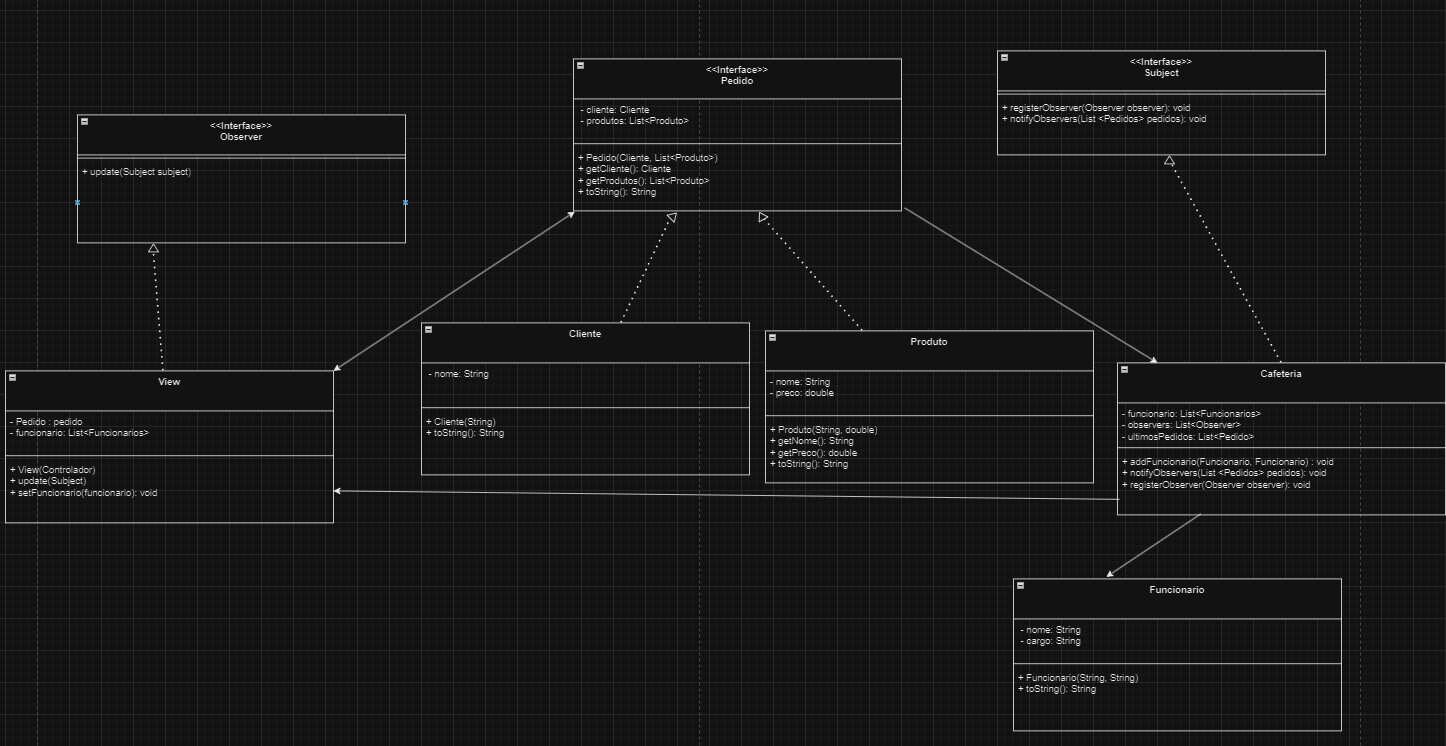
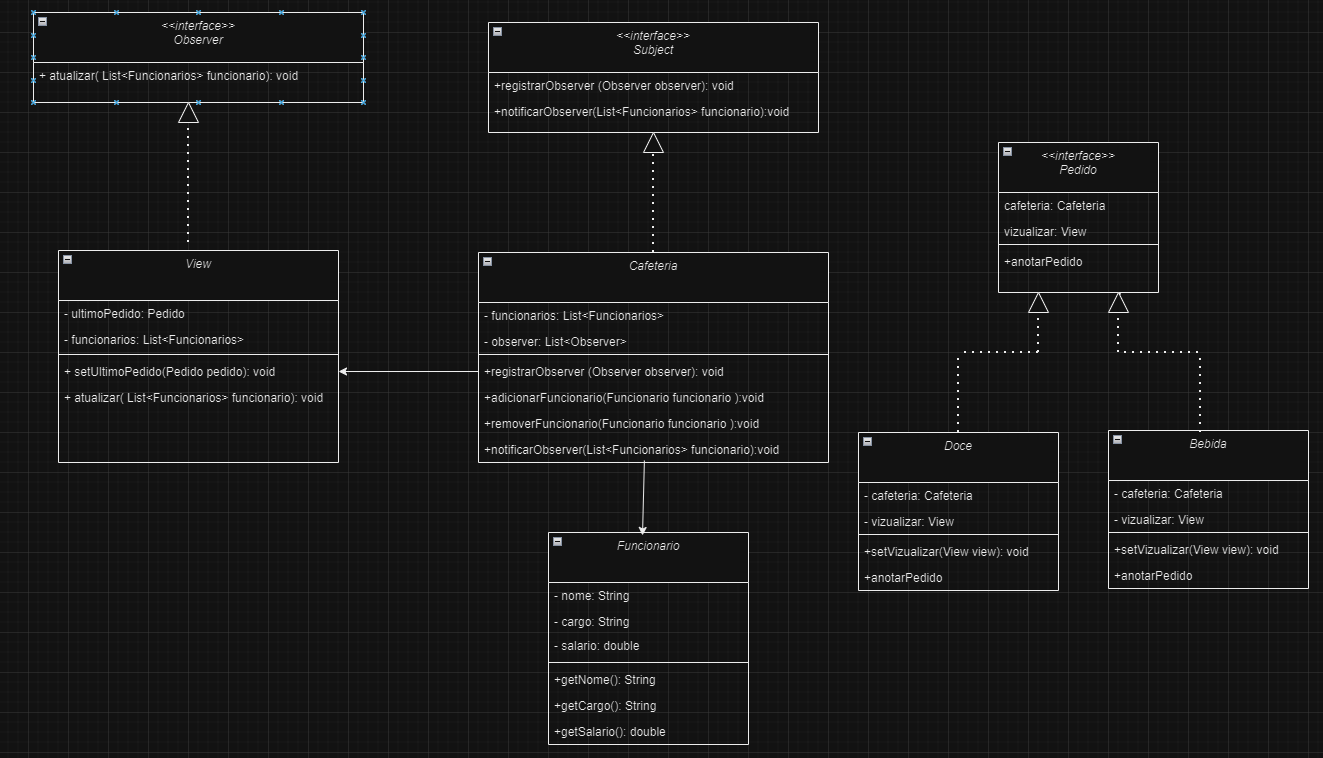
MVC

diff --git a/Engenharia III/MVC/Codigos/View.java b/Engenharia III/MVC/Codigos/View.java
@@ -1,25 +1,14 @@
-
 import java.util.List;
 
-public class View implements Observer {
-    private Controlador controlador;
+public abstract class View implements Observer {
+    private Pedido ultimoPedido;
+    private List<Funcionario> funcionarios;
 
-    public View(Controlador controlador) {
-        this.controlador = controlador;
-        controlador.attach(this);
+    public void setUltimoPedido(Pedido pedido){
+        this.ultimoPedido = pedido;
     }
 
-    public void update(Subject subject) {
-        if (subject instanceof Controlador) {
-            update();
-        }
-    }
-
-    public void update() {
-        List<Pedido> pedidos = controlador.getUltimosPedidos();
-        System.out.println("Novo Pedido Registrado:");
-        for (Pedido pedido : pedidos) {
-            System.out.println(pedido);
-        }
+    public void atualizar(List<Funcionario> funcionarios){
+        this.funcionarios = funcionarios;
     }
 }

diff --git a/Engenharia III/MVC/Codigos/Cafeteria.java b/Engenharia III/MVC/Codigos/Cafeteria.java
@@ -1,0 +1,28 @@
+import java.util.ArrayList;
+import java.util.List;
+
+public abstract class Cafeteria implements Subject {
+    private List<Funcionario> funcionarios;
+    private List<Observer> observers;
+
+    public Cafeteria() {
+        this.funcionarios = new ArrayList<>();
+        this.observers = new ArrayList<>();
+    }
+
+    public void registrarObserver(Observer observador){
+        this.observers.add(observador);
+    }
+
+    public void notificarUltimoPedido(List<Funcionario> l){
+        this.observers.forEach(ob -> ob.atualizar(l));
+    }
+
+    public void adicionarFuncionario(Funcionario funcionario){
+        this.funcionarios.add(funcionario);
+    }
+
+    public Funcionario retirarFuncionario(String nomeFuncionario){
+        return this.funcionarios.stream().filter(r -> r.getNome().equalsIgnoreCase(nomeFuncionario)).findFirst().orElse(null);
+    }
+}

diff --git a/Engenharia III/MVC/Codigos/Funcionario.java b/Engenharia III/MVC/Codigos/Funcionario.java
@@ -1,16 +1,23 @@
 public class Funcionario {
     private String nome;
+    private double saldo;
     private String cargo;
 
-    public Funcionario(String nome, String cargo) {
+    public Funcionario(String nome, double saldo, String cargo){
         this.nome = nome;
+        this.saldo = saldo;
         this.cargo = cargo;
     }
 
-    @Override
-    public String toString() {
-        return nome + " - " + cargo;
+    public String getNome(){
+        return this.nome;
+    }
+
+    public double getSaldo(){
+        return this.saldo;
+    }
+
+    public String getCargo(){
+        return this.cargo;
     }
 }
-
-

diff --git a/Engenharia III/MVC/Codigos/Pedido.java b/Engenharia III/MVC/Codigos/Pedido.java
@@ -1,25 +1,3 @@
-import java.util.ArrayList;
-import java.util.List;
-
-public class Pedido {
-    private Cliente cliente;
-    private List<Produto> produtos;
-
-    public Pedido(Cliente cliente, List<Produto> produtos) {
-        this.cliente = cliente;
-        this.produtos = new ArrayList<>(produtos);
-    }
-
-    public Cliente getCliente() {
-        return cliente;
-    }
-
-    public List<Produto> getProdutos() {
-        return produtos;
-    }
-
-    @Override
-    public String toString() {
-        return "Pedido de " + cliente + ": " + produtos;
-    }
+public interface Pedido {
+    void fazerPedido();
 }

diff --git a/Engenharia III/MVC/Codigos/Subject.java b/Engenharia III/MVC/Codigos/Subject.java
@@ -1,20 +1,6 @@
-import java.util.ArrayList;
 import java.util.List;
 
-public class Subject {
-    private List<Observer> observers = new ArrayList<>();
-
-    public void attach(Observer observer) {
-        observers.add(observer);
-    }
-
-    public void detach(Observer observer) {
-        observers.remove(observer);
-    }
-
-    public void notifyObservers() {
-        for (Observer observer : observers) {
-            observer.update(this);
-        }
-    }
+public interface Subject {
+    void registrarObserver(Observer o);
+    void notificarObservers(List<Funcionario> funcionarios);
 }

diff --git a/Engenharia III/MVC/Codigos/Bebida.java b/Engenharia III/MVC/Codigos/Bebida.java
@@ -1,0 +1,12 @@
+public abstract class Bebida implements Pedido {
+    private View view;
+    private Cafeteria cafeteria;
+
+    public void anotarPedido(){
+        System.out.println("Pedido Anotado!");
+    }
+
+    public void setVisualizador(View view){
+        this.view = view;
+    }
+}

diff --git a/Engenharia III/MVC/Codigos/Doce.java b/Engenharia III/MVC/Codigos/Doce.java
@@ -1,0 +1,12 @@
+public abstract class Doce implements Pedido {
+    private View view;
+    private Cafeteria cafeteria;
+
+    public void setVisualizador(View view){
+        this.view = view;
+    }
+
+    public void anotarPedido(){
+        System.out.println("Pedido Anotado!");
+    }
+}

diff --git a/Engenharia III/MVC/Codigos/Observer.java b/Engenharia III/MVC/Codigos/Observer.java
@@ -1,3 +1,5 @@
+import java.util.List;
+
 public interface Observer {
-    void update(Subject subject);
+    public void atualizar(List<Funcionario> funcionario);
 }
